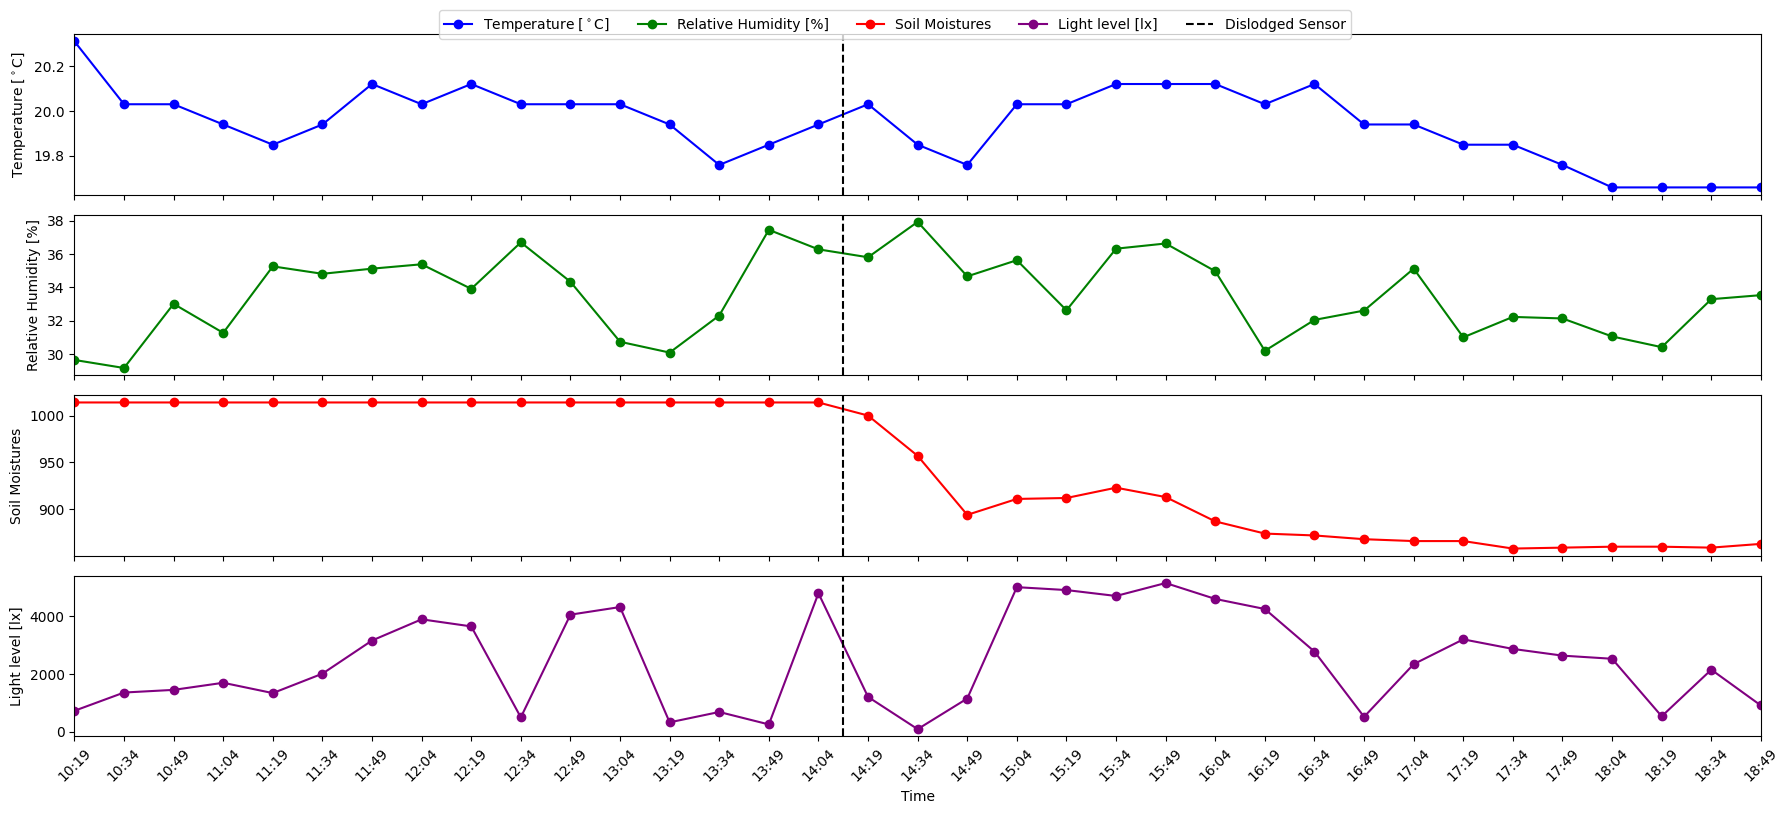
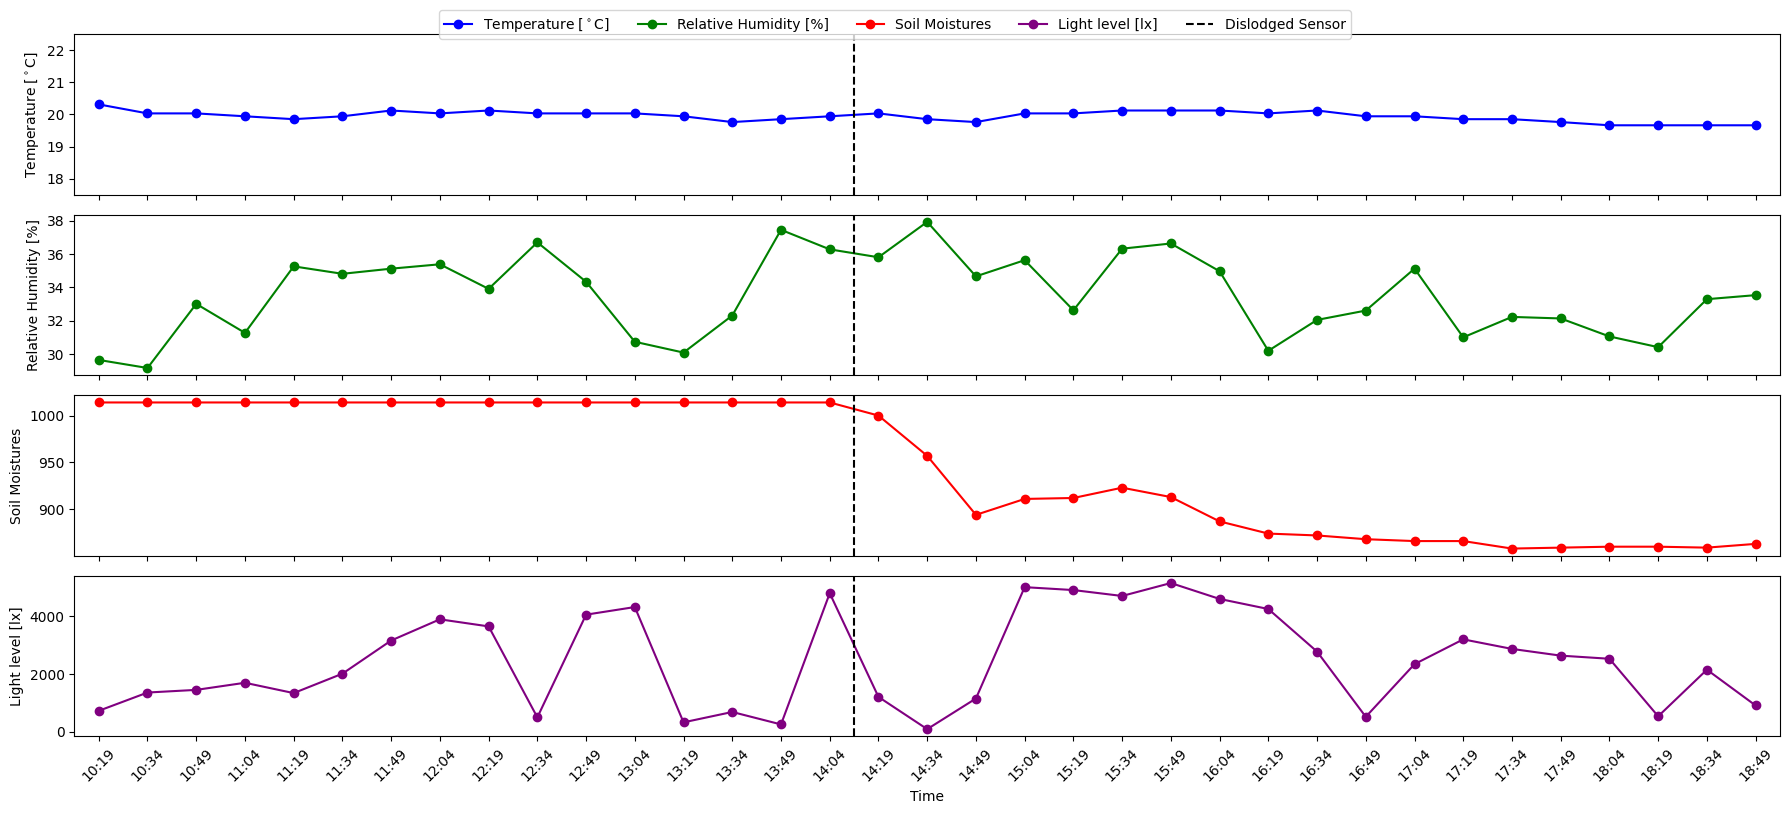
plot newly watered

diff --git a/scripts/plot_data.py b/scripts/plot_data.py
@@ -49,18 +49,19 @@ colors = ["b", "g", "r", "purple"]
 for i, (ax, series, ylabel, color) in enumerate(zip(axs, seri, ylabel, colors)):
     ax.plot(series, "-o", color=color, label=ylabel)
     ax.set_ylabel(ylabel)
-    ax.axvline(
-        dislodge_index - 0.5,
-        linestyle="--",
-        color="black",
-        label="Dislodged Sensor" if i == 3 else None,
-    )
+    # ax.axvline(
+    #     dislodge_index - 0.5,
+    #     linestyle="--",
+    #     color="black",
+    #     label="Dislodged Sensor" if i == 3 else None,
+    # )
 
-axs[0].set_xbound(17.5, 22.5)
+axs[0].set_ybound(17.5, 22.5)
+axs[3].set_xbound(-0.5, len(timestamps) - 0.5)
 axs[3].set_xlabel("Time")
 axs[3].set_xticks(range(len(timestamps)))
 axs[3].set_xticklabels(timestamps, rotation=45)  # , ha="right")
 
 fig.legend(loc="upper center", ncol=5, bbox_to_anchor=(0.5, 1.02))
 plt.tight_layout()
-plt.savefig("fig_long.png", bbox_inches="tight")
+plt.savefig("newly_watered.png", bbox_inches="tight")